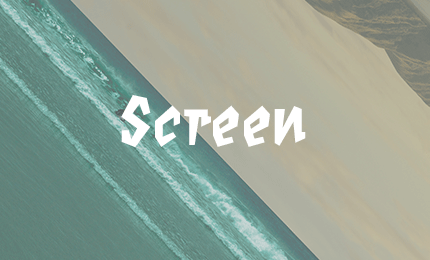
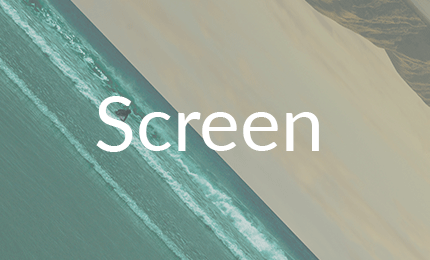
added on click

Changed region(s): [[0.2116, 0.3692, 0.7558, 0.5846]]

diff --git a/Index.html b/Index.html
@@ -22,8 +22,15 @@
                 {
                     portfoliocontent.style.display = "none";
                     othething.style.display = "block";
-                }
+                } 
             } 
+            
+            function controledmouceoutevent(img, src, id){
+                var portfoliocontent = document.getElementById(id);
+                if (portfoliocontent.style.display == "none"){
+                    this.src = src;
+                }
+            }
     
             
            
@@ -38,7 +45,7 @@
           
         
         <div class="banner_1">
-            <img class="img_ban" src="tn_1_un.png" onmouseover="this.src='tn_1_se.png';" onmouseout="this.src='tn_1_un.png'" onclick="DisPorfolioContent('test_1')"/>
+            <img class="img_ban" src="tn_1_un.png" onmouseover="this.src='tn_1_se.png';" onmouseout="controledmouceoutevent(this, 'tn_1_un.png', 'test_1')" onclick="DisPorfolioContent('test_1')"/>
             <img class="img_ban" src="tn_2_un.png" onmouseover="this.src='tn_2_se.png';" onmouseout="this.src='tn_2_un.png'" onclick="DisPorfolioContent('test_2')"/>
             <img class="img_ban" src="tn_3_un.png" onmouseover="this.src='tn_3_se.png';" onmouseout="this.src='tn_3_un.png'" onclick="DisPorfolioContent('test_3')"/>
             <img class="img_ban_1" src="tn_4_un.png" onmouseover="this.src='tn_4_se.png';" onmouseout="this.src='tn_4_un.png'" onclick="DisPorfolioContent('test_4')"/>
@@ -47,61 +54,86 @@
         
             <div class="banner_2" id='text'>
                 <div class="text_box">
-                    <h1 style="font-family: 'Abril Fatface', cursive;">Photography</h1>
-                    <h2>Suspendisse a finibus nisl. Donec ornare, est id bibendum tempor, justo elit ultricies neque, id ornare lacus ligula in felis. </h2>
+                    <h5 class="heading">Photography</h5>
+                    <p>Suspendisse a finibus nisl. Donec ornare, est id bibendum tempor, justo elit ultricies neque, id ornare lacus ligula in felis. </p>
                 </div>
                 <div class="text_box">
-                    <h1 style="font-family: 'Abril Fatface', cursive;">Screen</h1>
-                    <h2>Suspendisse a finibus nisl. Donec ornare, est id bibendum tempor, justo elit ultricies neque, id ornare lacus ligula in felis. </h2>
-                </div>
+                    <p> Screen 
+                        Suspendisse a finibus nisl. Donec ornare, est id bibendum tempor, justo elit ultricies neque, id ornare lacus ligula in felis. </p>
+                </div> 
                 <div class="text_box">
-                    <h1 style="font-family: 'Abril Fatface', cursive;">Web Design</h1>
-                    <h2>Suspendisse a finibus nisl. Donec ornare, est id bibendum tempor, justo elit ultricies neque, id ornare lacus ligula in felis. </h2>
+                    <h5 class="heading">Web Design</h5>
+                    <p>Suspendisse a finibus nisl. Donec ornare, est id bibendum tempor, justo elit ultricies neque, id ornare lacus ligula in felis. </p>
                 </div>
-                <div class="text_box">
-                    <h1 style="font-family: 'Abril Fatface', cursive;">Collage</h1>
-                    <h2>Suspendisse a finibus nisl. Donec ornare, est id bibendum tempor, justo elit ultricies neque, id ornare lacus ligula in felis. </h2>
+                <div class="text_box_1">
+                    <h5 class="heading">Collage</h5>
+                    <p>Suspendisse a finibus nisl. Donec ornare, est id bibendum tempor, justo elit ultricies neque, id ornare lacus ligula in felis. </p>
                 </div>
             </div>
         
                 <div id="test_1" class="img_ban_2" style="display: none";>
-                    <img class="img_ban" src="tn_1_un.png"/>
-                    <img class="img_ban" src="tn_1_un.png"/>
-                    <img class="img_ban" src="tn_1_un.png"/>
-                    <img class="img_ban" src="tn_1_un.png"/>
+                    <img class="img_ban" src="ph_1.png"/>
+                    <img class="img_ban" src="ph_2.png"/>
+                    <img class="img_ban" src="ph_3.png"/>
+                    <img class="img_ban_1" src="ph_4.png"/>
                     <div class="text_box">Suspendisse a finibus nisl. Donec ornare, est id bibendum tempor, justo elit ultricies neque, id ornare lacus ligula in felis.   
                     </div>
                     <div class="text_box">Suspendisse a finibus nisl. Donec ornare, est id bibendum tempor, justo elit ultricies neque, id ornare lacus ligula in felis.
                     </div>
                     <div class="text_box">Suspendisse a finibus nisl. Donec ornare, est id bibendum tempor, justo elit ultricies neque, id ornare lacus ligula in felis.
                     </div>
-                    <div class="text_box">Suspendisse a finibus nisl. Donec ornare, est id bibendum tempor, justo elit ultricies neque, id ornare lacus ligula in felis.
+                    <div class="text_box_1">Suspendisse a finibus nisl. Donec ornare, est id bibendum tempor, justo elit ultricies neque, id ornare lacus ligula in felis.
                     </div>
                 </div>
                 
                 <div id="test_2" class="img_ban_2" style="display: none";>
-                    <img class="img_ban" src="tn_2_un.png"/>
-                    <img class="img_ban" src="tn_2_un.png"/>
-                    <img class="img_ban" src="tn_2_un.png"/>
-                    <img class="img_ban" src="tn_2_un.png"/>
+                    <img class="img_ban" src="sc_4.png"/>
+                    <img class="img_ban" src="sc_2.png"/>
+                    <img class="img_ban" src="sc_3.png"/>
+                    <img class="img_ban_1" src="sc_1.png"/>
+                    <div class="text_box">Suspendisse a finibus nisl. Donec ornare, est id bibendum tempor, justo elit ultricies neque, id ornare lacus ligula in felis.   
+                    </div>
+                    <div class="text_box">Suspendisse a finibus nisl. Donec ornare, est id bibendum tempor, justo elit ultricies neque, id ornare lacus ligula in felis.
+                    </div>
+                    <div class="text_box">Suspendisse a finibus nisl. Donec ornare, est id bibendum tempor, justo elit ultricies neque, id ornare lacus ligula in felis.
+                    </div>
+                    <div class="text_box_1">Suspendisse a finibus nisl. Donec ornare, est id bibendum tempor, justo elit ultricies neque, id ornare lacus ligula in felis
+                    </div>
                 </div>
         
                 <div id="test_3" class="img_ban_2" style="display: none";>  
                     <img class="img_ban" src="tn_3_un.png"/>
                     <img class="img_ban" src="tn_3_un.png"/>
                     <img class="img_ban" src="tn_3_un.png"/>
-                    <img class="img_ban" src="tn_3_un.png"/>
+                    <img class="img_ban_1" src="tn_3_un.png"/>
+                    <div class="text_box">Suspendisse a finibus nisl. Donec ornare, est id bibendum tempor, justo elit ultricies neque, id ornare lacus ligula in felis.   
+                    </div>
+                    <div class="text_box">Suspendisse a finibus nisl. Donec ornare, est id bibendum tempor, justo elit ultricies neque, id ornare lacus ligula in felis.
+                    </div>
+                    <div class="text_box">Suspendisse a finibus nisl. Donec ornare, est id bibendum tempor, justo elit ultricies neque, id ornare lacus ligula in felis.
+                    </div>
+                    <div class="text_box_1">Suspendisse a finibus nisl. Donec ornare, est id bibendum tempor, justo elit ultricies neque, id ornare lacus ligula in felis
+                    </div>
                 </div>
         
                 <div id="test_4" class="img_ban_2 " style="display: none";>   
                     <img class="img_ban" src="tn_4_un.png"/>
                     <img class="img_ban" src="tn_4_un.png"/>
                     <img class="img_ban" src="tn_4_un.png"/>
-                    <img class="img_ban" src="tn_4_un.png"/>
+                    <img class="img_ban_1" src="tn_4_un.png"/>
+                    <div class="text_box">Suspendisse a finibus nisl. Donec ornare, est id bibendum tempor, justo elit ultricies neque, id ornare lacus ligula in felis.   
+                    </div>
+                    <div class="text_box">Suspendisse a finibus nisl. Donec ornare, est id bibendum tempor, justo elit ultricies neque, id ornare lacus ligula in felis.
+                    </div>
+                    <div class="text_box">Suspendisse a finibus nisl. Donec ornare, est id bibendum tempor, justo elit ultricies neque, id ornare lacus ligula in felis.
+                    </div>
+                    <div class="text_box_1">Suspendisse a finibus nisl. Donec ornare, est id bibendum tempor, justo elit ultricies neque, id ornare lacus ligula in felis
+                    </div>
                 </div>
        
         <div class="banner_3">
             <h1 class="About">About</h1>
+            <p class="about_text">blalawejhwfoijwpeoifjhwpeiofjhwepoif</p>
         </div>
    
     </body>

diff --git a/Style.css b/Style.css
@@ -1,4 +1,4 @@
-@import url('https://fonts.googleapis.com/css?family=Lato|Playfair+Display');
+@import url('https://fonts.googleapis.com/css?family=Lato:300,400');
 /*import fonts from google fonts*/
 
 
@@ -13,11 +13,13 @@
 
 .logo {
     height: 60px;
-    width: 250px;
+    width: 920px;
     margin: 20px;
-    float: left;
+    text-align: center;
+    margin-left: auto;
+    margin-right: auto;
     font-size: 60px;
-    font-family: 'Playfair Display', serif;
+    font-family: 'Lato', sans-serif; 
 }
 
 /* make the banner remain selected when clicked on + create new thumbnails to fit 920px  */
@@ -32,16 +34,16 @@
 
 /* resise all elements so that they fit on the page */
 .img_ban {
-    width: 226.25px;
+    width: 215px;
     float: left;
-    height: auto;
-    margin-right: 5px;
+    height: 130px;
+    margin-right: 20px;
 }
 
 .img_ban_1 {
-    width: 226.25px;
+    width: 215px;
     float: left;
-    height: auto;
+    height: 130px;
     margin-right: 0px;
 }
 
@@ -56,9 +58,17 @@
 }
 
 .text_box {
-    height: 250px;
-    width: 430px;
-    margin-left: 36px;
+    height: 130;
+    width: 215px;
+    margin-right: 20px;
+    float: left;
+    font-family: 'Lato', sans-serif;
+    background-color: red;
+}
+
+.text_box_1 {
+    height: 130px;
+    width: 215px;
     float: left;
     font-family: 'Lato', sans-serif;
 }
@@ -96,7 +106,14 @@
     margin-left: auto;
     margin-right: auto;
     font-size: 45px;
-    font-family: 'Playfair Display', serif;
+    font-family: 'Lato', sans-serif;
+}
+
+.about_text {
+    text-align: center;
+    margin-left: auto;
+    margin-right: auto;
+    width: 920px;
 }
 
     
